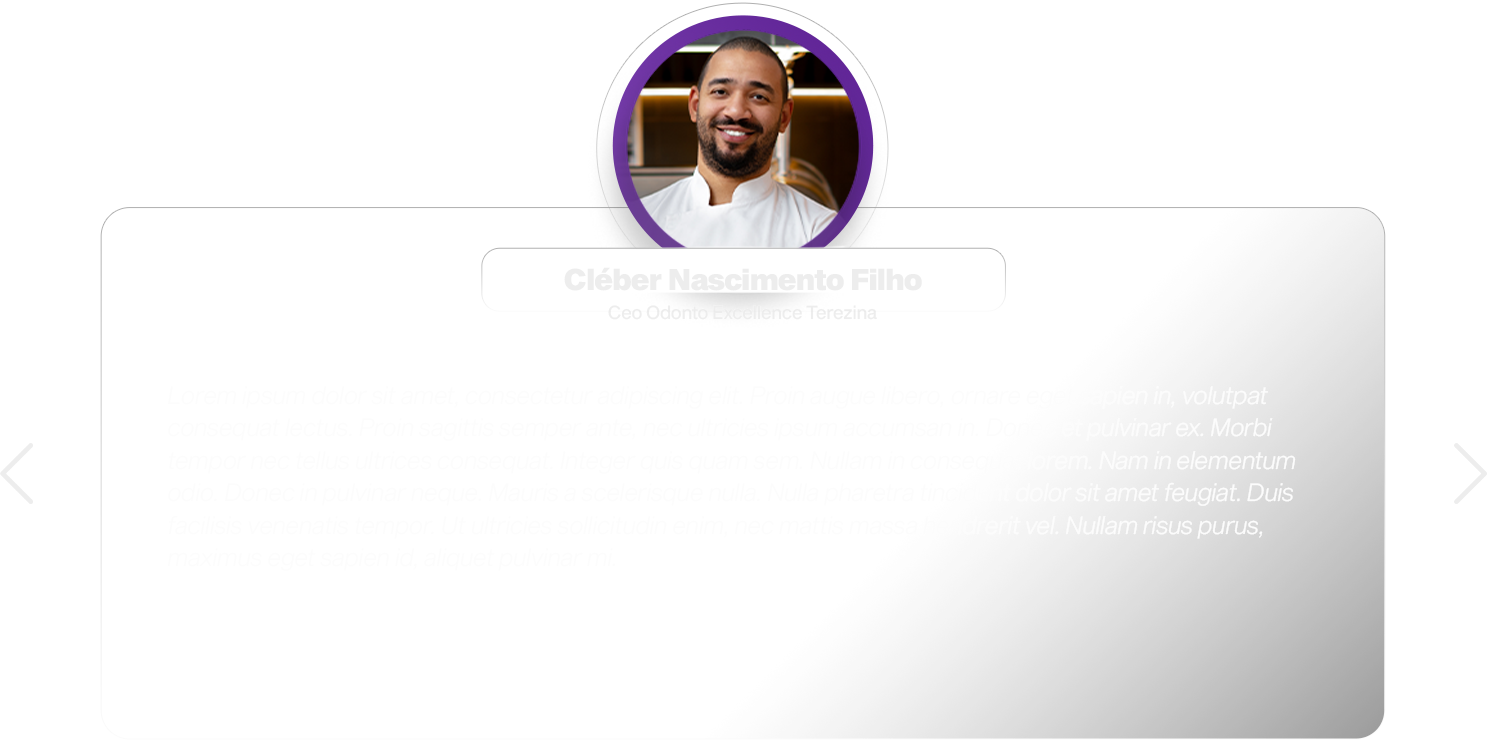
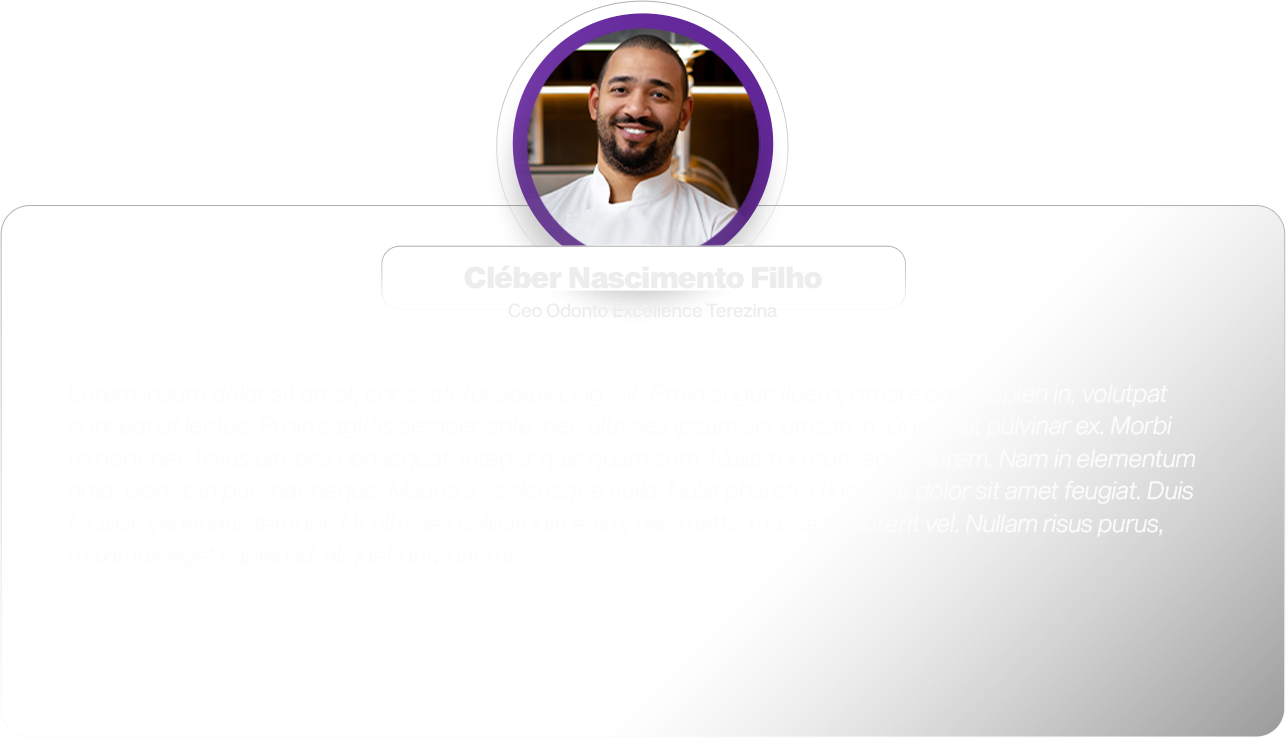
Tamanho das setas arrumado

Changed region(s): [[0.7465, 0.2805, 1.0, 1.0], [0.3733, 0.0, 0.6221, 0.3428]]

diff --git a/index.html b/index.html
@@ -161,11 +161,11 @@
                 </div>
     
                 <a class="carousel-control-prev" href="#carouselFirstIndicators" role="button" data-slide="prev">
-                    <span class="carousel-control-prev-icon" aria-hidden="true"></span>
+                    <span class="carousel-control-prev-icon fontIcon" aria-hidden="true"></span>
                     <span class="sr-only">Anterior</span>
                 </a>
                 <a class="carousel-control-next" href="#carouselFirstIndicators" role="button" data-slide="next">
-                  <span class="carousel-control-next-icon" aria-hidden="true"></span>
+                  <span class="carousel-control-next-icon fontIcon" aria-hidden="true"></span>
                   <span class="sr-only">Próximo</span>
                 </a>
             </div>
@@ -192,11 +192,11 @@
                       </div>
                     </div>
                     <a class="carousel-control-prev" href="#carouselSecondIndicators" role="button" data-slide="prev">
-                      <span class="carousel-control-prev-icon" aria-hidden="true"></span>
+                      <span class="carousel-control-prev-icon fontIcon" aria-hidden="true"></span>
                       <span class="sr-only">Anterior</span>
                     </a>
                     <a class="carousel-control-next" href="#carouselSecondIndicators" role="button" data-slide="next">
-                      <span class="carousel-control-next-icon" aria-hidden="true"></span>
+                      <span class="carousel-control-next-icon fontIcon" aria-hidden="true"></span>
                       <span class="sr-only">Próximo</span>
                     </a>
                   </div>

diff --git a/style.css b/style.css
@@ -398,6 +398,10 @@ section.cases {
     color: var(--white);
 }
 
+.fontIcon {
+    width: 50px;
+    height: 50px;
+}
 
 .depositions {
     display: flex;
